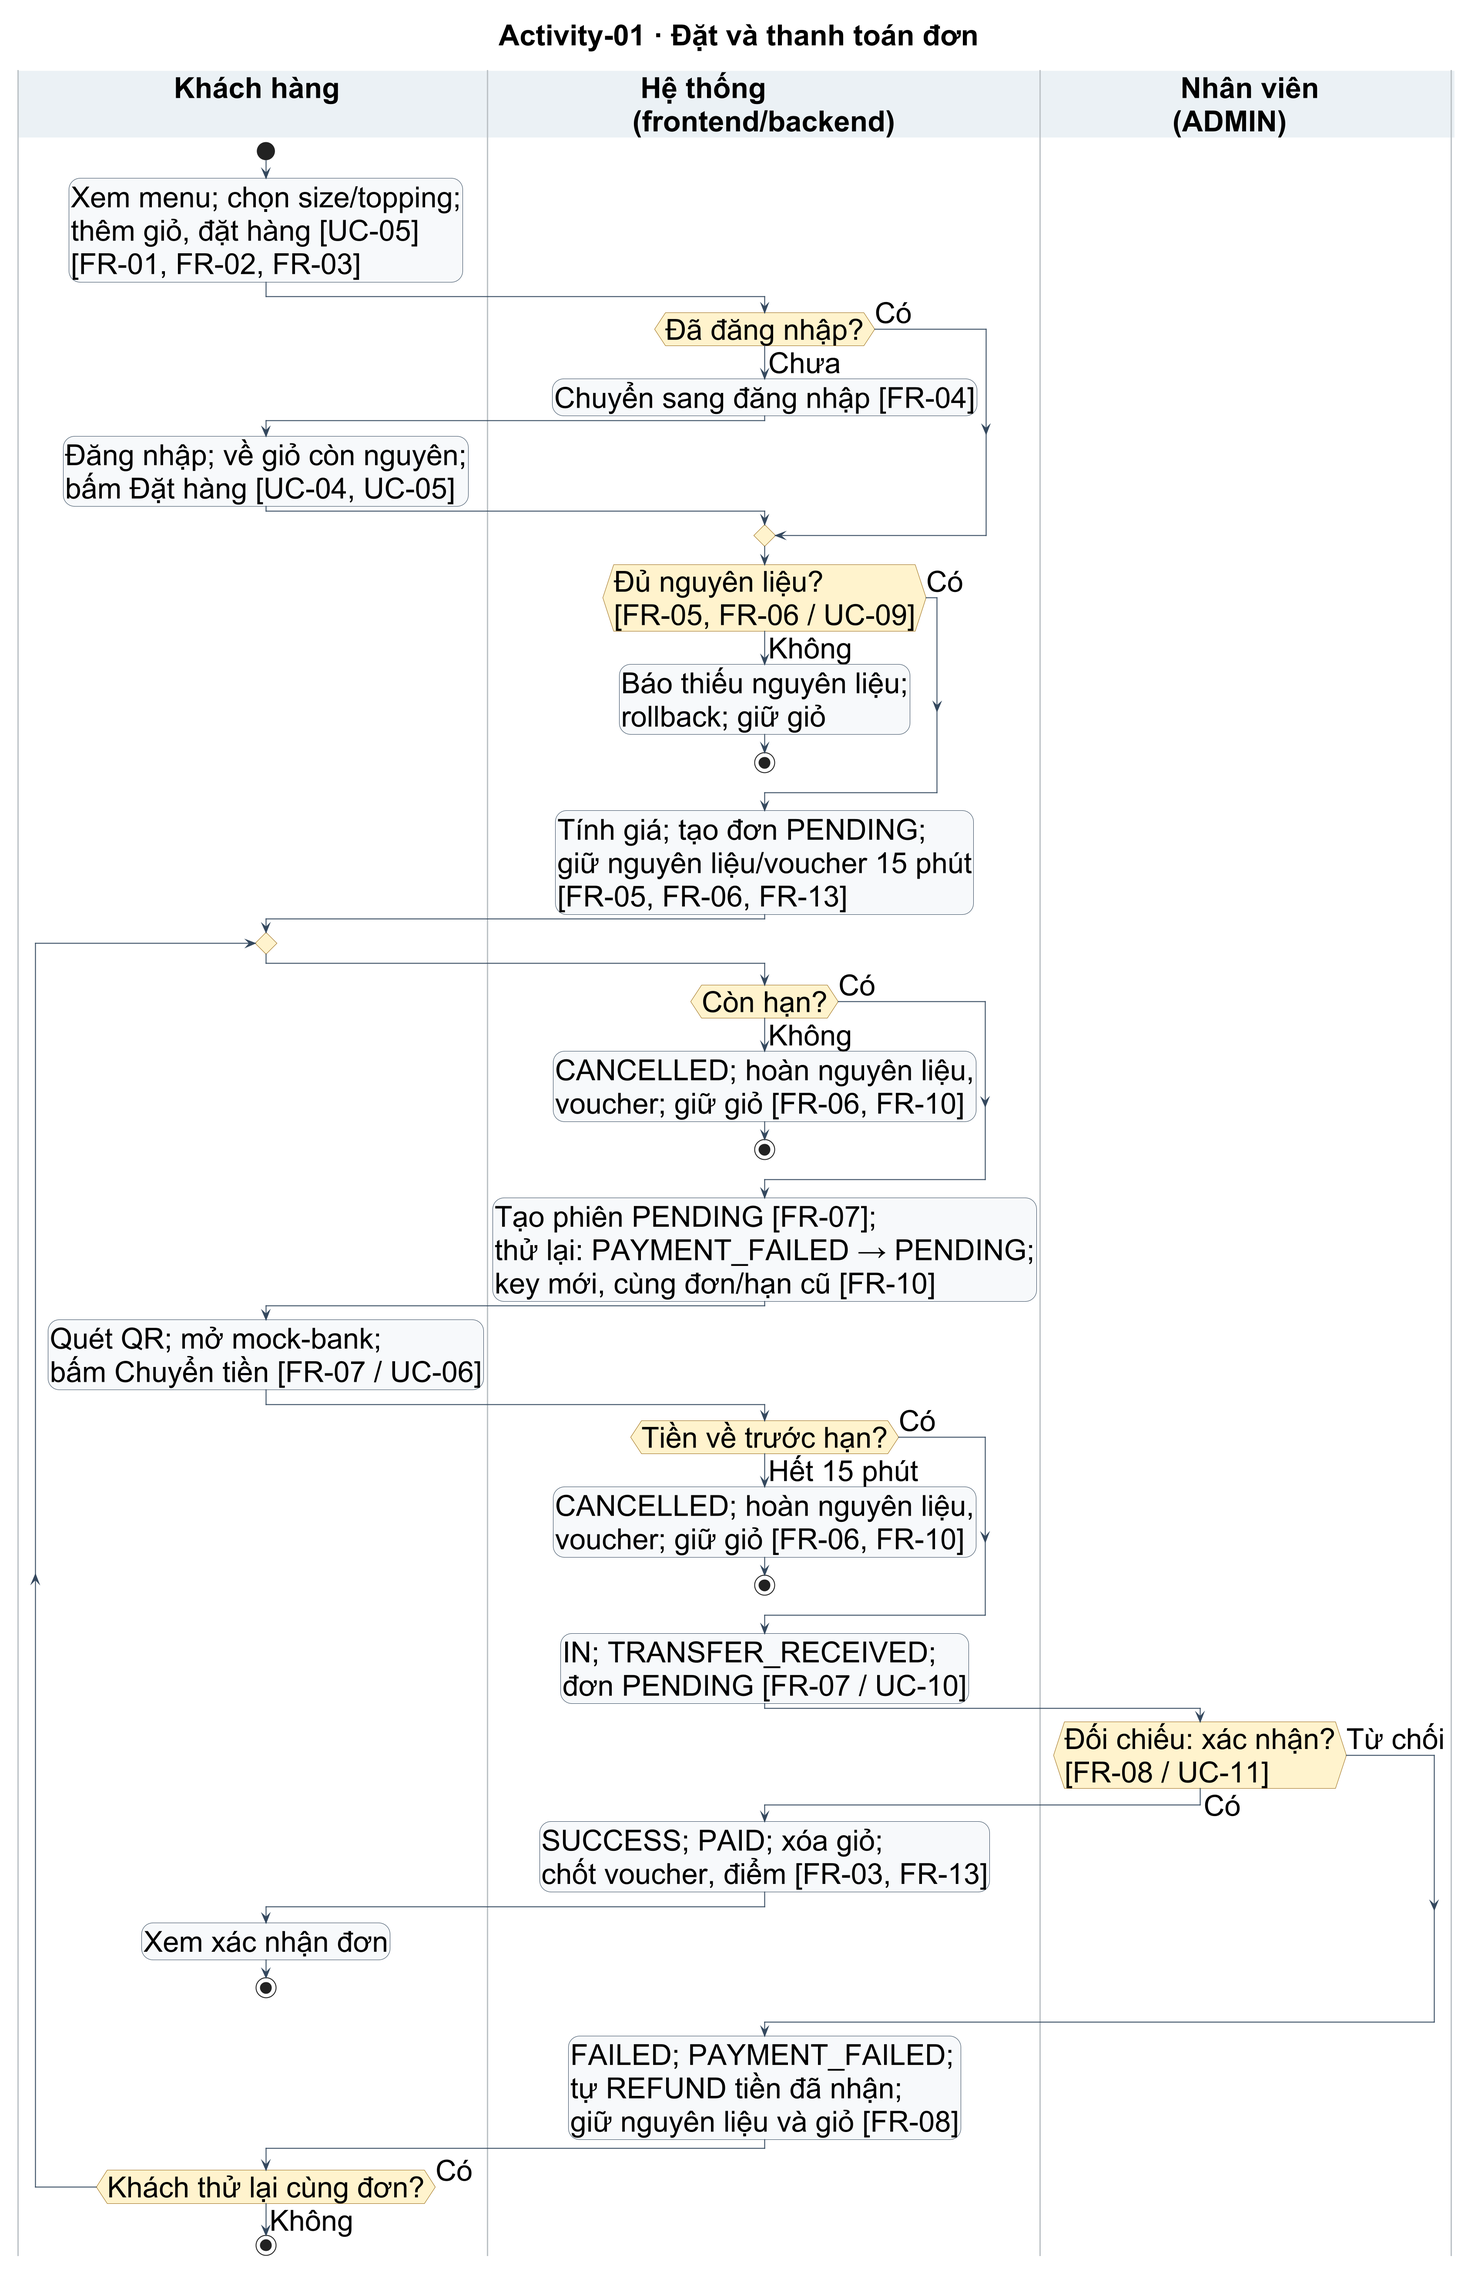
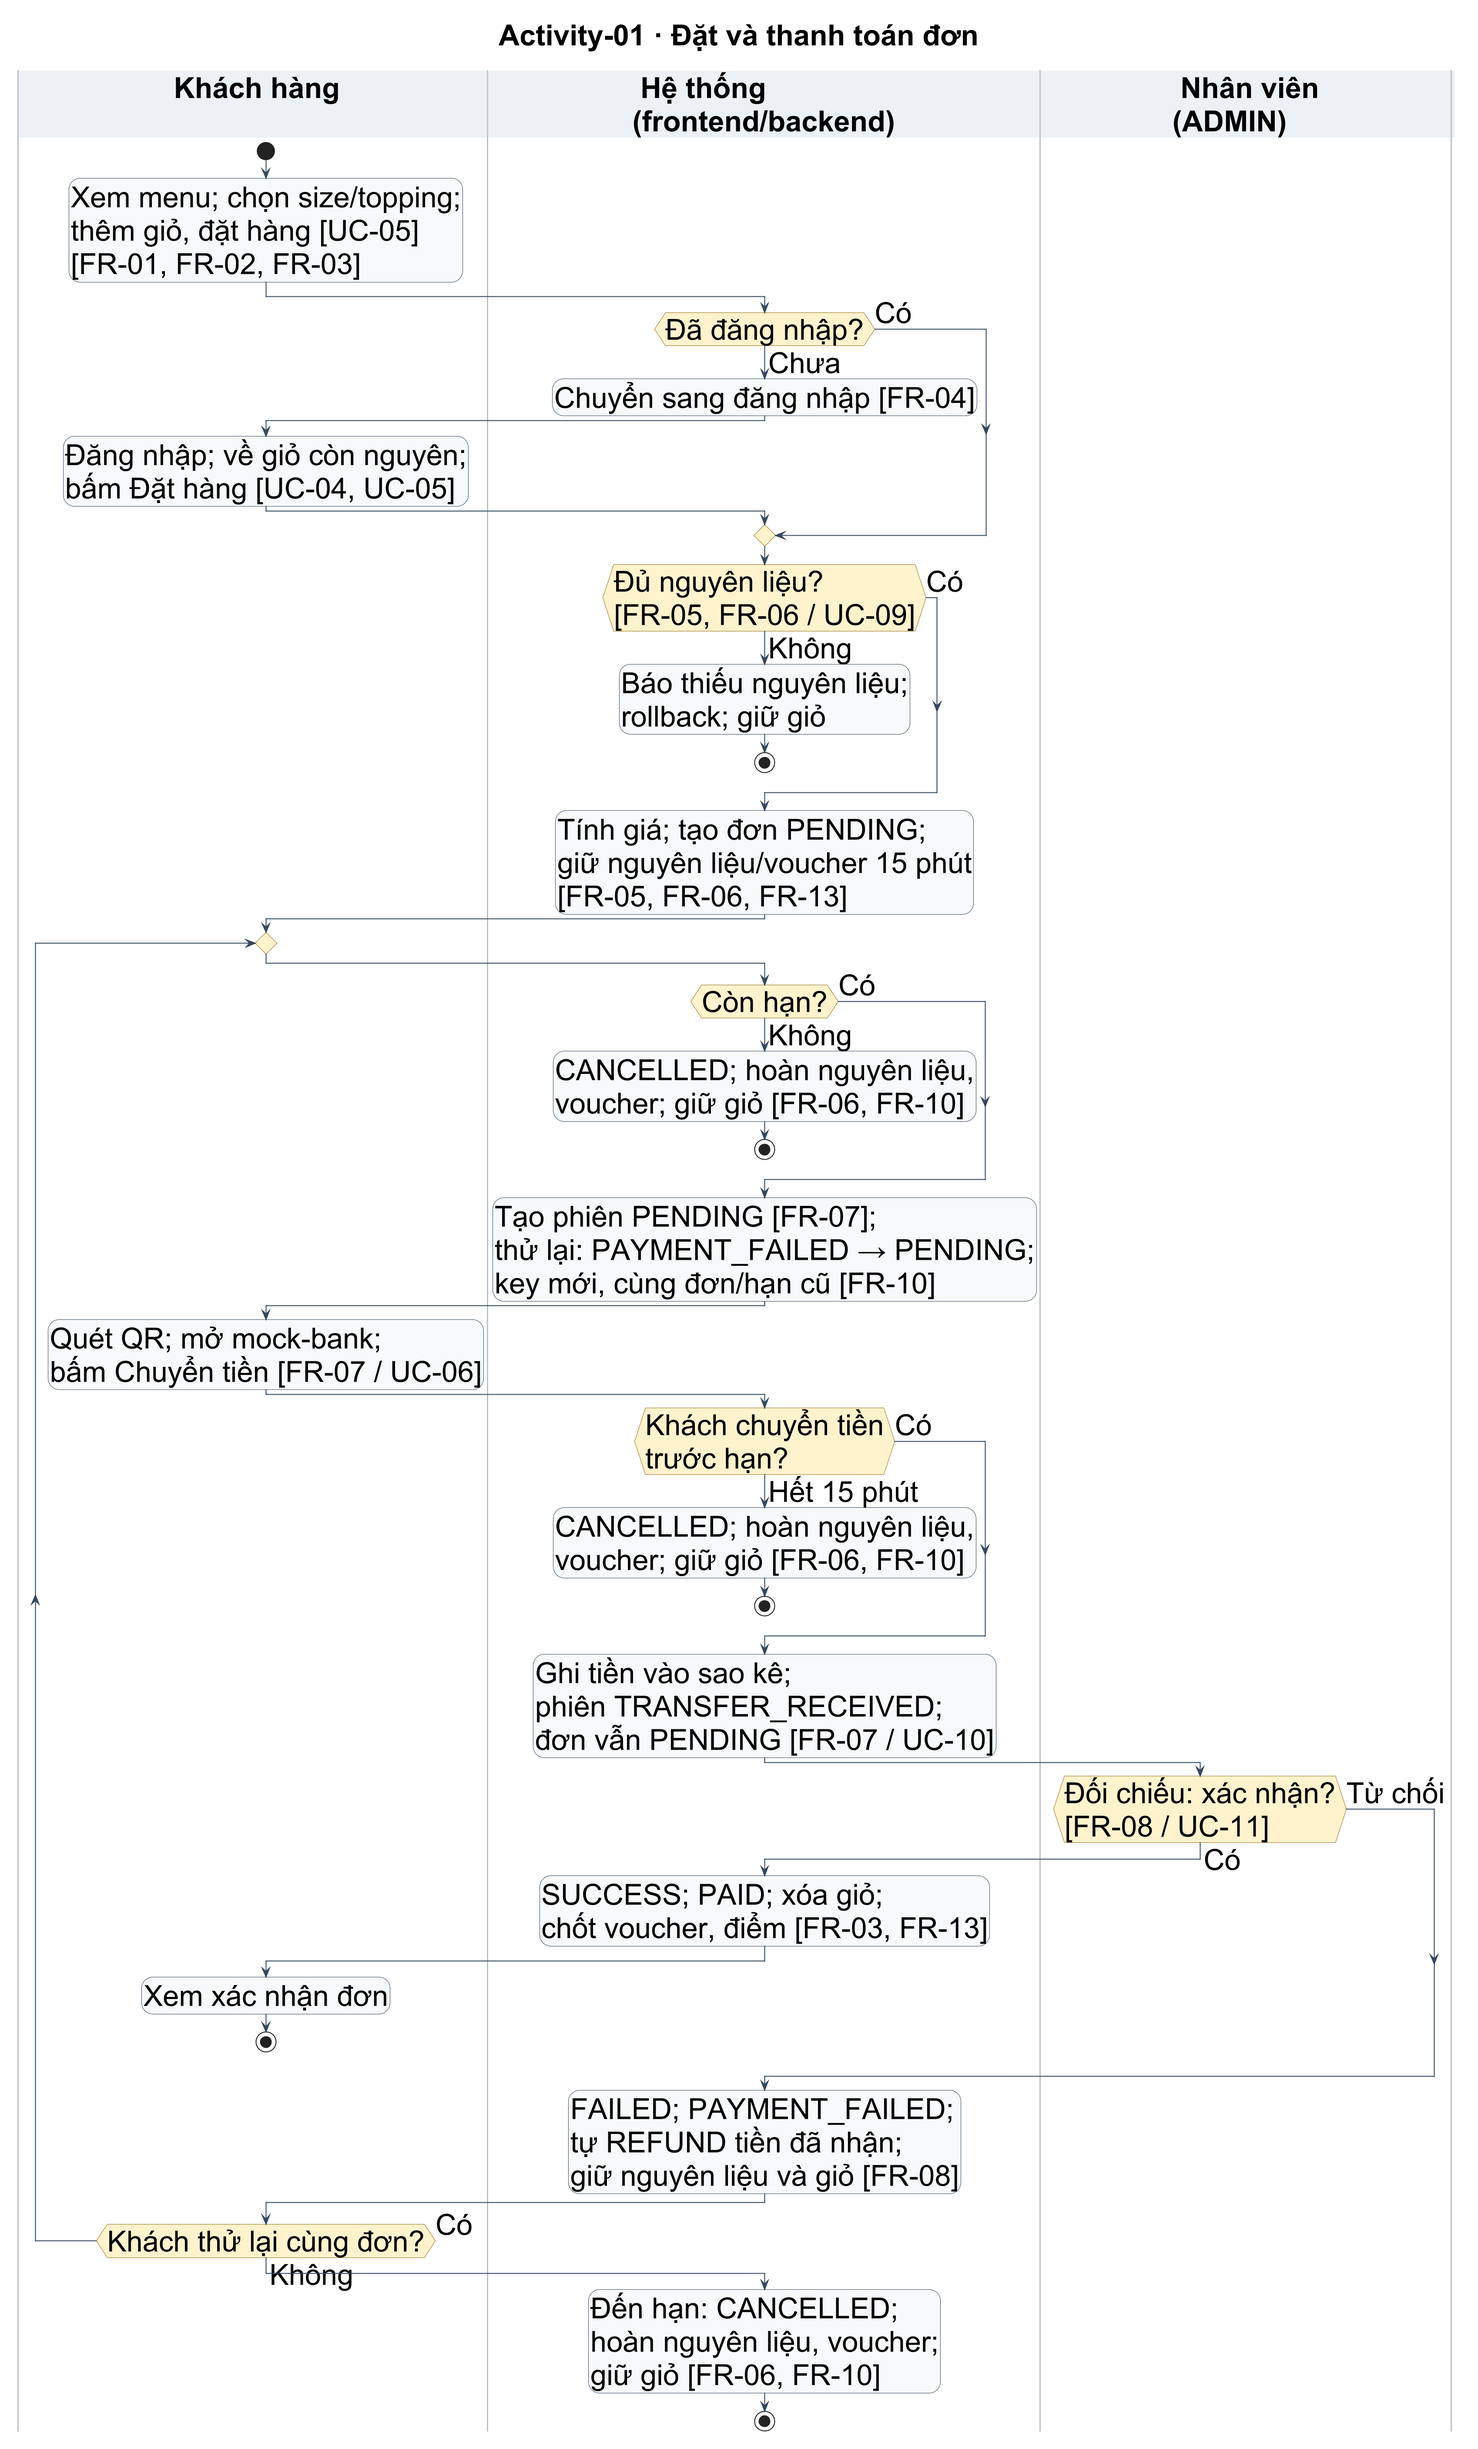
docs(diagrams): address checkout activity review

diff --git a/docs/diagrams/activity.tex b/docs/diagrams/activity.tex
@@ -39,6 +39,9 @@ và quyết định:
     \texttt{Idempotency-Key} mới. Hạn vẫn tính từ lúc tạo đơn;
     không giữ nguyên liệu lần hai, không chuyển thẳng
     \texttt{PAYMENT\_FAILED} $\rightarrow$ \texttt{PAID}.
+    Nếu khách không thử lại, đơn vẫn \texttt{PAYMENT\_FAILED}
+    đến hạn cũ; khi đến hạn, hệ thống tự hủy và hoàn nguyên liệu,
+    lượt voucher, giữ giỏ.
   \item \textbf{Quá hạn khi chưa nhận tiền}: tác vụ nền tự chuyển đơn
     sang \texttt{CANCELLED}, hoàn nguyên liệu và lượt voucher
     đúng một lần, giữ giỏ. Nhánh hết hạn được xử lý cả khi khách
